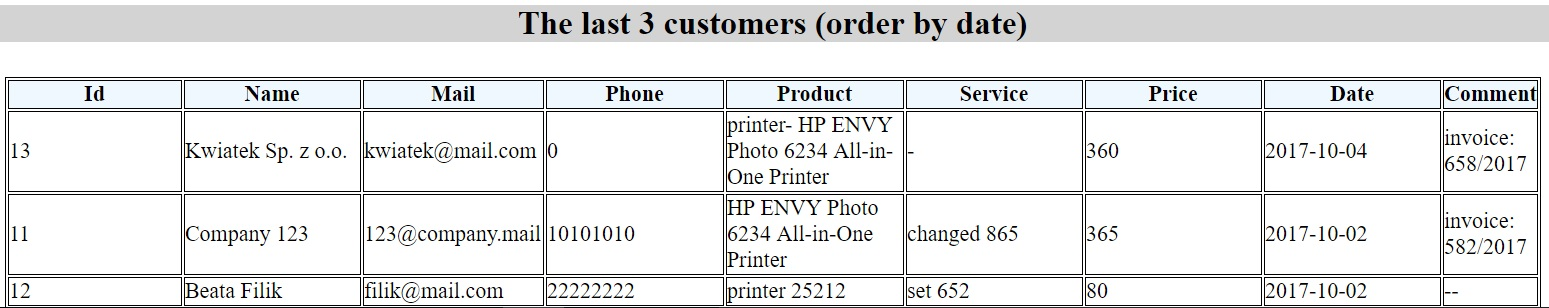
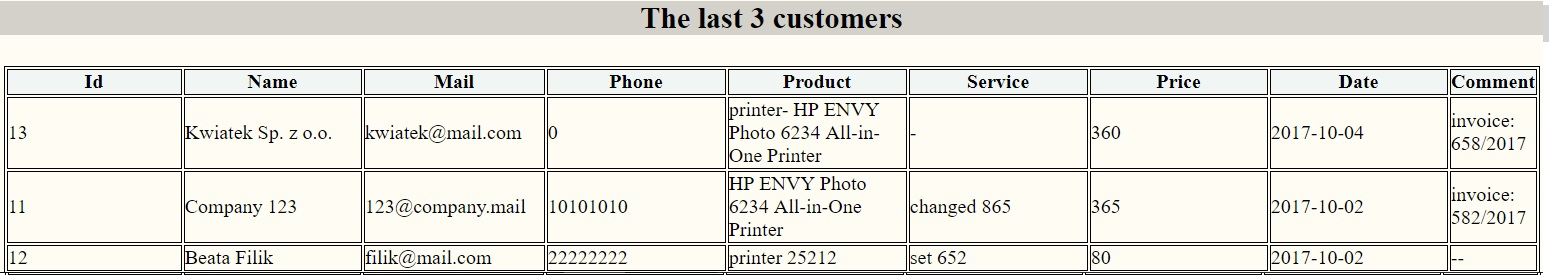
updated

diff --git a/css/style.css b/css/style.css
@@ -11,6 +11,9 @@ h2{
     margin-top: 20px;
     background-color: lightgrey;
 }
+.header{
+    margin: 0;
+}
 hr{
     margin: 20px 0;
 }
@@ -25,6 +28,9 @@ input, textarea{
     display: block;
     width: 80%;
     margin-top: 5px;
+}
+textarea{
+    resize: horizontal;
 }
 input[type="submit"]{
     margin-top: 20px;
@@ -63,7 +69,4 @@ td{
 }
 #searchCustomer label{
     color: black;
-}
-.header{
-    margin: 0;
 }

diff --git a/newCustomers.php b/newCustomers.php
@@ -8,7 +8,7 @@
 <body>
      <form class="list" method="POST" action="send.php">
          <fieldset>
-             <h2 class="header">Our Customers:</h2>
+             <h2 class="header">New Customer:</h2>
              <hr>
              <label>Name:<input type="text" name="name" id="name"></label>
              <label>Mail:<input type="email" name="mail" id="email"/></label>
@@ -17,8 +17,8 @@
              <p>Service:</p><textarea name="service" cols="20" rows="5"></textarea>
              <label>Price:<input type="number" name="price"/></label>
              <label>Date:<input type="date" name="date" id="date"/></label>
-             <p>Comment:</p><textarea name="comment" rows="5"></textarea>
-             <input type="submit" name="newCustomer" value="ADD NEW CUSTOMERS"/>
+             <p>Comment:</p><textarea name="comment" rows="5" cols="20"></textarea>
+             <input type="submit" name="newCustomer" value="ADD NEW CUSTOMER"/>
          </fieldset>
     </form>
    <a href="listOfCustomers.php"><input type="submit" name="customers" value="ALL CUSTOMERS"/></a>
@@ -27,7 +27,7 @@
         require("connection.php");
         $result = mysql_query('SELECT * FROM customers ORDER BY date DESC LIMIT 3');
         
-        echo '<h2>The last 3 customers (order by date)</h2>';
+        echo '<h2>The last 3 customers</h2>';
         echo '<table class="list">
             <tr>
                 <th>Id</th>
